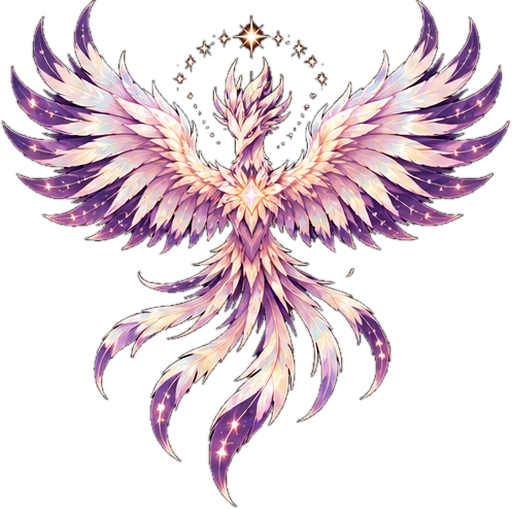
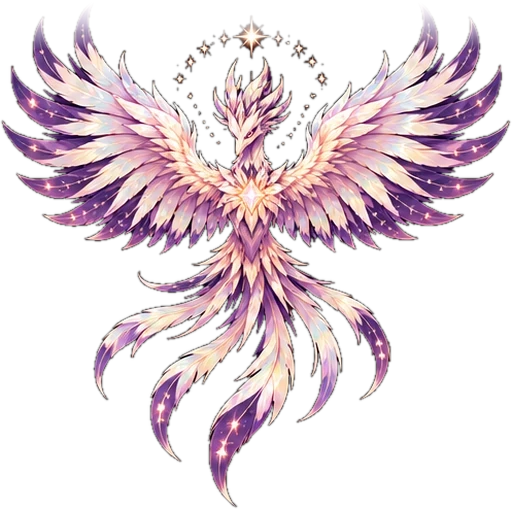
Fix mirrored beast and phoenix cut-offs, neighbour-cell slivers on Seraph sprites, tidy north mantle, one-line arena name, plain abandon button

diff --git a/src/game/render/seraFx.ts b/src/game/render/seraFx.ts
@@ -37,7 +37,7 @@ export class SeraFx {
   private kick(v: number, reduced: boolean) { if (!reduced) this.shake = Math.max(this.shake, v); }
   private img(slot: Slot, n: string, blend: Phaser.BlendModes = NORMAL) { let im = this.slots[slot]; if (!im && this.has(n)) { im = this.scene.add.image(0, 0, seraKey(n)).setBlendMode(blend); this.slots[slot] = im; } return im; }
   private place(im: Phaser.GameObjects.Image | undefined, x: number, y: number, w: number, a: number, depth: number, o: { flip?: number; rot?: number; ox?: number; oy?: number } = {}) {
-    if (!im) return; im.setVisible(a > 0.01).setPosition(x, y).setDepth(depth).setOrigin(o.ox ?? 0.5, o.oy ?? 0.5).setDisplaySize(w, w * (im.height / im.width)).setFlipX((o.flip ?? 1) < 0).setAlpha(a).setRotation(o.rot ?? 0);
+    if (!im) return; const fl = (o.flip ?? 1) < 0, ox = o.ox ?? 0.5; im.setVisible(a > 0.01).setPosition(x, y).setDepth(depth).setOrigin(fl ? 1 - ox : ox, o.oy ?? 0.5).setDisplaySize(w, w * (im.height / im.width)).setFlipX(fl).setAlpha(a).setRotation(fl ? -(o.rot ?? 0) : (o.rot ?? 0));   // a mirrored sprite mirrors its anchor and tilt too, or its far half falls outside the frame
   }
   private star(x: number, y: number, r: number, a: number, color = PEARL) { this.g.lineStyle(1.4, color, a).beginPath(); this.g.moveTo(x - r, y); this.g.lineTo(x + r, y); this.g.moveTo(x, y - r * 1.3); this.g.lineTo(x, y + r * 1.3); this.g.strokePath(); this.g.fillStyle(color, a).fillCircle(x, y, r * 0.3); }
 
@@ -109,8 +109,9 @@ export class SeraFx {
   private mantle(vx: number, bx: number, by: number, f: number, back: boolean, moving: boolean, alive: boolean) {
     const FEATHER = [{ n: 'mf_1', len: 64, ang: 0.52 }, { n: 'mf_3', len: 54, ang: 0.86 }, { n: 'mf_6', len: 46, ang: 1.18 }, { n: 'mf_4', len: 34, ang: 1.5 }, { n: 'mf_5', len: 78, ang: 0.28 }];
     const drift = Math.max(-0.5, Math.min(0.5, -vx * 0.0014)), run = moving ? 0.12 : 0;
+    const SHOW = back ? [4, 0, 1] : [0, 1, 2, 3, 4];   // from behind: three long tidy feathers per side, not a tangle
     for (let side = 0; side < 2; side++) for (let i = 0; i < FEATHER.length; i++) {
-      const F = FEATHER[i], k = side * FEATHER.length + i; let im = this.mf[k];
+      const F = FEATHER[i], k = side * FEATHER.length + i; let im = this.mf[k]; if (!SHOW.includes(i)) { im?.setVisible(false); continue; }
       if (!im) { if (!this.has(F.n)) continue; im = this.scene.add.image(0, 0, seraKey(F.n)).setBlendMode(NORMAL); this.mf[k] = im; }
       const sgn = side === 0 ? -1 : 1, phase = this.clock * 2.4 + i * 0.8 + side, rot = Math.PI + sgn * (F.ang + 0.06 * Math.sin(phase) + run) + drift * (0.6 + 0.12 * i);   // feather tip points down and out from the shoulder
       const w = F.len * (im.width / im.height); im.setVisible(alive).setOrigin(0.5, 0.97).setPosition(bx + sgn * 13 - f * 6, by - 30).setRotation(rot).setDisplaySize(w, F.len).setAlpha(0.95).setDepth(back ? 10.3 : 8.9);

diff --git a/e2e/b36-flip.spec.ts b/e2e/b36-flip.spec.ts
@@ -1,0 +1,19 @@
+import { test, expect, type Page } from '@playwright/test';
+/** B36: mirrored beast/phoenix layers while walking left, north mantle, auto feather and halo cut-outs. Stills go to test-results/b36 (gitignored). */
+type Q = { sim: () => { player: Record<string, number> }; spawn: (k: string, dx?: number, dy?: number) => void };
+const boot = (page: Page) => page.waitForFunction(() => Boolean((window as unknown as { __KYNT_QA__?: unknown }).__KYNT_QA__));
+for (const hero of ['sora', 'ren'] as const) test(`B36 ${hero} form 2 overdrive, left / north / auto`, async ({ page }) => {
+  test.setTimeout(120000); await page.setViewportSize({ width: 1280, height: 720 });
+  const errors: string[] = []; page.on('pageerror', e => errors.push(String(e)));
+  await page.addInitScript((h) => localStorage.setItem('kyntraze-b00-v1-qa', JSON.stringify({ version: 1, hero: h, settings: {}, unlocks: { cometheart: true, stillfire: true, ren: true, sora: true }, b22: { v: 1, soraF2: true, renF2: true } })), hero);
+  await page.goto('/?qa=1&ascend=1'); await page.getByTestId('play-button').click(); await page.getByTestId('nexus-heroes').click(); await page.getByTestId('start-run').click(); await boot(page); await page.waitForTimeout(1200);
+  await page.evaluate(() => { const s = (window as unknown as { __KYNT_QA__: Q }).__KYNT_QA__.sim(); s.player.hp = s.player.maxHp = 1e6; s.player.drive = 100; });
+  await page.keyboard.press('f'); await page.waitForTimeout(400); await page.keyboard.press('2'); await page.waitForTimeout(6500);
+  await page.evaluate(() => { const s = (window as unknown as { __KYNT_QA__: Q }).__KYNT_QA__.sim(); s.player.odMeter = 100; s.player.drive = 100; });
+  await page.keyboard.press('g'); await page.waitForTimeout(1200);
+  const shot = (n: string) => page.screenshot({ path: `test-results/b36/${hero}-${n}.png`, clip: { x: 340, y: 160, width: 600, height: 400 } });
+  await page.keyboard.down('a'); await page.waitForTimeout(900); await shot('left'); await page.keyboard.up('a');
+  await page.keyboard.down('w'); await page.waitForTimeout(700); await shot('north'); await page.keyboard.up('w');
+  await page.keyboard.down('d'); await page.waitForTimeout(700); await shot('right'); await page.keyboard.up('d');
+  expect(errors).toEqual([]);
+});

diff --git a/src/game/render/ashFx.ts b/src/game/render/ashFx.ts
@@ -98,7 +98,7 @@ export class AshFx {
     const moving = Math.hypot(p.vx, p.vy) > 40 || s.hx.moving; if (Math.abs(p.aimX) > 0.2) this.side += ((p.aimX >= 0 ? 1 : -1) - this.side) * Math.min(1, dt * 8);
     this.lx += (p.x - this.lx) * Math.min(1, dt * 7); this.ly += (p.y - this.ly) * Math.min(1, dt * 7); const A = this.foxA * (reduced ? 0.7 : 1), f = this.side >= 0 ? 1 : -1, sway = Math.sin(this.clock * 3.2);
     const body = this.img('foxBody', 'ef_body'), head = this.img('foxHead', 'ef_head'), tails = this.img('foxTails', 'ef_tails'), stream = this.img('foxStream', 'ef_stream');
-    const set = (im: Phaser.GameObjects.Image | null, x: number, y: number, w: number, a: number, depth: number, flip: number, rot = 0, ox = 0.5, oy = 0.5) => { if (!im) return; im.setVisible(a > 0.01).setPosition(x, y).setDepth(depth).setOrigin(ox, oy).setDisplaySize(w, w * (im.height / im.width)).setFlipX(flip < 0).setAlpha(a).setRotation(rot); };
+    const set = (im: Phaser.GameObjects.Image | null, x: number, y: number, w: number, a: number, depth: number, flip: number, rot = 0, ox = 0.5, oy = 0.5) => { if (!im) return; im.setVisible(a > 0.01).setPosition(x, y).setDepth(depth).setOrigin(flip < 0 ? 1 - ox : ox, oy).setDisplaySize(w, w * (im.height / im.width)).setFlipX(flip < 0).setAlpha(a).setRotation(flip < 0 ? -rot : rot); };
     const bx = this.lx, by = this.ly + MID;
     set(tails, bx - f * 34, by - 10 + sway * 4, 190, 0.7 * A * (moving ? 0.2 : 1), 8.9, f, sway * 0.04, 0.82, 0.5);
     set(stream, bx - f * 16, by - 4, 230, 0.75 * A * (moving ? 1 : 0), 8.95, f, 0, 0.92, 0.5);

diff --git a/src/app/b30-1.css b/src/app/b30-1.css
@@ -39,7 +39,7 @@
 .pz-actions { display: flex; flex-direction: column; gap: calc(8 * var(--u)); margin-top: auto; }
 .pz-resume { width: 100%; padding: calc(11 * var(--u)) calc(14 * var(--u)); font-size: max(13px, calc(17 * var(--u))); letter-spacing: .16em; }
 .pz-row { display: grid; grid-template-columns: 1fr 1.5fr; gap: calc(8 * var(--u)); } .pz-row button { width: 100%; padding: calc(8 * var(--u)) calc(10 * var(--u)); font-size: max(10px, calc(12 * var(--u))); letter-spacing: .1em; min-width: 0; }
-.pz-abandon { background: rgba(60, 10, 16, .55) !important; border-color: rgba(255, 90, 100, .45) !important; color: #ffc9ce !important; }
+.pz-abandon { background: none !important; color: #ffdcdc; }
 .pz .hintbar { margin-top: calc(2 * var(--u)); justify-content: flex-start; }
 @media (max-height: 420px) { .pz .pz-card { width: min(calc(740 * var(--u)), 97vw); padding: calc(10 * var(--u)) calc(14 * var(--u)); gap: calc(10 * var(--u)); } .pz-crest { width: calc(64 * var(--u)); height: calc(64 * var(--u)); } .pz-crest i { height: calc(26 * var(--u)); } .pz-main { gap: calc(6 * var(--u)); } .pz .hintbar { display: none; } .pz .build-strip { max-height: calc(70 * var(--u)); overflow: hidden; } }
 @media (prefers-reduced-motion: reduce) { .pz .pz-card { animation: none; } }

diff --git a/src/app/b30-1-loading.css b/src/app/b30-1-loading.css
@@ -32,3 +32,7 @@
 .lz .loading-shade { background: linear-gradient(90deg, rgba(3, 7, 14, .9), rgba(3, 7, 14, .45) 52%, rgba(3, 7, 14, .55)), linear-gradient(180deg, rgba(2, 6, 14, .4), transparent 30%, rgba(2, 6, 14, .85)); }
 @media (max-height: 420px) { .lz .lz-body { margin-top: 16px; width: calc(470 * var(--u)); } .lz-card { width: calc(300 * var(--u)); } .lz-stage { bottom: 34%; } .lz-stage .lh-sprite { transform: translate(-50%, 0) scale(1.5); } .lz.duo .lz-stage .lh-sprite.a { transform: translate(-125%, 0) scale(1.45); } .lz.duo .lz-stage .lh-sprite.b { transform: translate(25%, 0) scale(1.45); } .lz-tip { min-height: 2.2em; } }
 @media (prefers-reduced-motion: reduce) { .lz-card::after, .lz-rail i::after, .lz-tip, .lz.intro .lz-body, .lz.intro .lz-foot { animation: none; } }
+
+/* B36: the arena name stays on one line, scaled to the column, so it never crowds the objective */
+.lz-dest { white-space: nowrap; font-size: max(16px, calc(31 * var(--u))); letter-spacing: .04em; }
+.lz .lz-body { width: calc(470 * var(--u)); }

diff --git a/art/b34/process.py b/art/b34/process.py
@@ -25,12 +25,17 @@ def clean(s):
     from scipy import ndimage
     a = np.array(s); lab, n = ndimage.label(a[..., 3] > 24); sz = ndimage.sum(np.ones_like(lab), lab, range(1, n + 1)); keep = [i + 1 for i, v in enumerate(sz) if v >= 0.04 * max(sz)]
     a[..., 3] = np.where(np.isin(lab, keep), a[..., 3], 0); return Image.fromarray(a)
+def main_cluster(s):
+    from scipy import ndimage
+    a = np.array(s); m = a[..., 3] > 24; g = max(6, int(0.012 * a.shape[1])); big = ndimage.binary_dilation(m, iterations=g); lab, n = ndimage.label(big)
+    if n < 2: return s
+    sz = ndimage.sum(m, lab, range(1, n + 1)); k = int(np.argmax(sz)) + 1; a[..., 3] = np.where(lab == k, a[..., 3], 0); return Image.fromarray(a)
 def grid(name, cols, rows, names, width, dest=None, size=None):
     p = f'{SRC}/{name}.png'
     if not os.path.exists(p): return
     im = Image.open(p); W, H = im.size
     for i, n in enumerate(names):
-        c, r = i % cols, i // cols; s = flood(im.crop((c * W // cols, r * H // rows, (c + 1) * W // cols, (r + 1) * H // rows)), black); s = clean(s) if n in CLEAN else s; s = s.crop(s.getbbox())
+        c, r = i % cols, i // cols; s = flood(im.crop((c * W // cols, r * H // rows, (c + 1) * W // cols, (r + 1) * H // rows)), black); s = clean(s) if n in CLEAN else s; s = s if size else main_cluster(s); s = s.crop(s.getbbox())
         if size: s = s.resize((size, size), Image.LANCZOS); s.save(f'{dest}/{n}.png')
         else: k = width / s.width; s = s.resize((width, max(1, round(s.height * k))), Image.LANCZOS); s.save(f'{OUT}/{n}.webp', 'WEBP', quality=90, method=6, exact=True)
         print(n, s.size)

diff --git a/art/b36/fade_edges.py b/art/b36/fade_edges.py
@@ -1,0 +1,13 @@
+"""B36: soft-fades the sides of beast/phoenix sprites whose art was cropped hard by the ImageGen cell (opaque pixels on the image border read as a vertical cut once the sprite is mirrored or moved). python art/b36/fade_edges.py"""
+import numpy as np
+from PIL import Image
+J = {'public/art/b33/ef_tails.webp': {'L': .3}, 'public/art/b33/ef_stream.webp': {'L': .3}, 'public/art/b33/ef_body.webp': {'L': .12, 'R': .12}, 'public/art/b33/ef_jaw.webp': {'L': .1}, 'public/art/b33/ef_paw.webp': {'L': .1, 'R': .1}, 'public/art/b33/ef_head.webp': {'R': .06},
+     'public/art/b34/ph_front.webp': {'T': .1}, 'public/art/b34/ph_head.webp': {'L': .05}, 'public/art/b34/ph_tail.webp': {'L': .06}, 'public/art/b34/ph_wingback.webp': {'L': .06}, 'public/art/b34/ph_wingup.webp': {'L': .04}}
+for f, e in J.items():
+    im = Image.open(f).convert('RGBA'); a = np.array(im).astype(np.float32); h, w = a.shape[:2]; m = np.ones((h, w), np.float32)
+    ramp = lambda n: np.linspace(0, 1, max(2, n)) ** 1.5
+    for k, fr in e.items():
+        if k == 'L': r = ramp(int(w * fr)); m[:, :len(r)] *= r[None, :]
+        if k == 'R': r = ramp(int(w * fr)); m[:, w - len(r):] *= r[None, ::-1]
+        if k == 'T': r = ramp(int(h * fr)); m[:len(r), :] *= r[:, None]
+    a[..., 3] *= m; Image.fromarray(a.astype(np.uint8)).save(f, 'WEBP', quality=90, method=6, exact=True); print(f)
